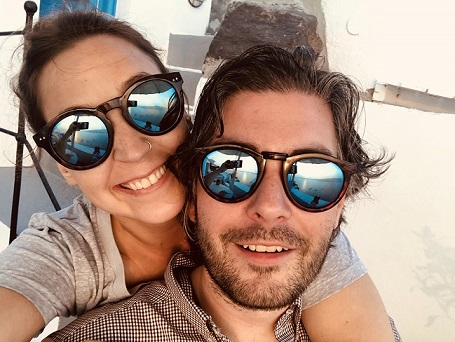
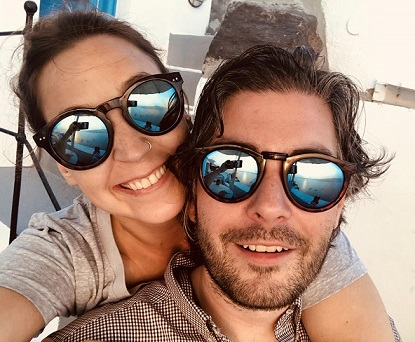
Changed picture alignment and padding

diff --git a/index.html b/index.html
@@ -46,11 +46,12 @@
             
 
               <article>
-              <img class="img-fluid pl-4 pb-3 float-right" src="images/self.jpg" alt="Photo of Patrick Dalton">
-              <p>Patrick Dalton is an I.T. professional from Chicago, Illinois. He is currently enrolled in Northwestern University's Fullstack Software Development bootcamp program. He has many years of experience working in technical support.</p>
-              <P>Outside of work, Patrick enjoys cooking, listening to music, and taking long drives.</P>
-              <p><a href="https://github.com/radergan" target="_blank">Explore my Github</a>  |  <a href="https://www.linkedin.com/in/patrick-j-dalton-47bbb9192/" target="_blank">Connect on LinkedIn</a></p>
-              </article>
+              <img class="img-fluid float-right pl-4 pr-4 pb-3" src="images/self.jpg" alt="Photo of Patrick Dalton">
+              <section class="biography">
+                <p>Patrick Dalton is an I.T. professional from Chicago, Illinois. He is currently enrolled in Northwestern University's Fullstack Software Development bootcamp program. He has many years of experience working in technical support.</p>
+                <P>Outside of work, Patrick enjoys cooking, listening to music, writing code, and taking long drives.</P>
+                <p><a href="https://github.com/radergan" target="_blank">Explore my Github</a>  |  <a href="https://www.linkedin.com/in/patrick-j-dalton-47bbb9192/" target="_blank">Connect on LinkedIn</a></p>
+              </section>
             </main>
         </div>
     </div>
